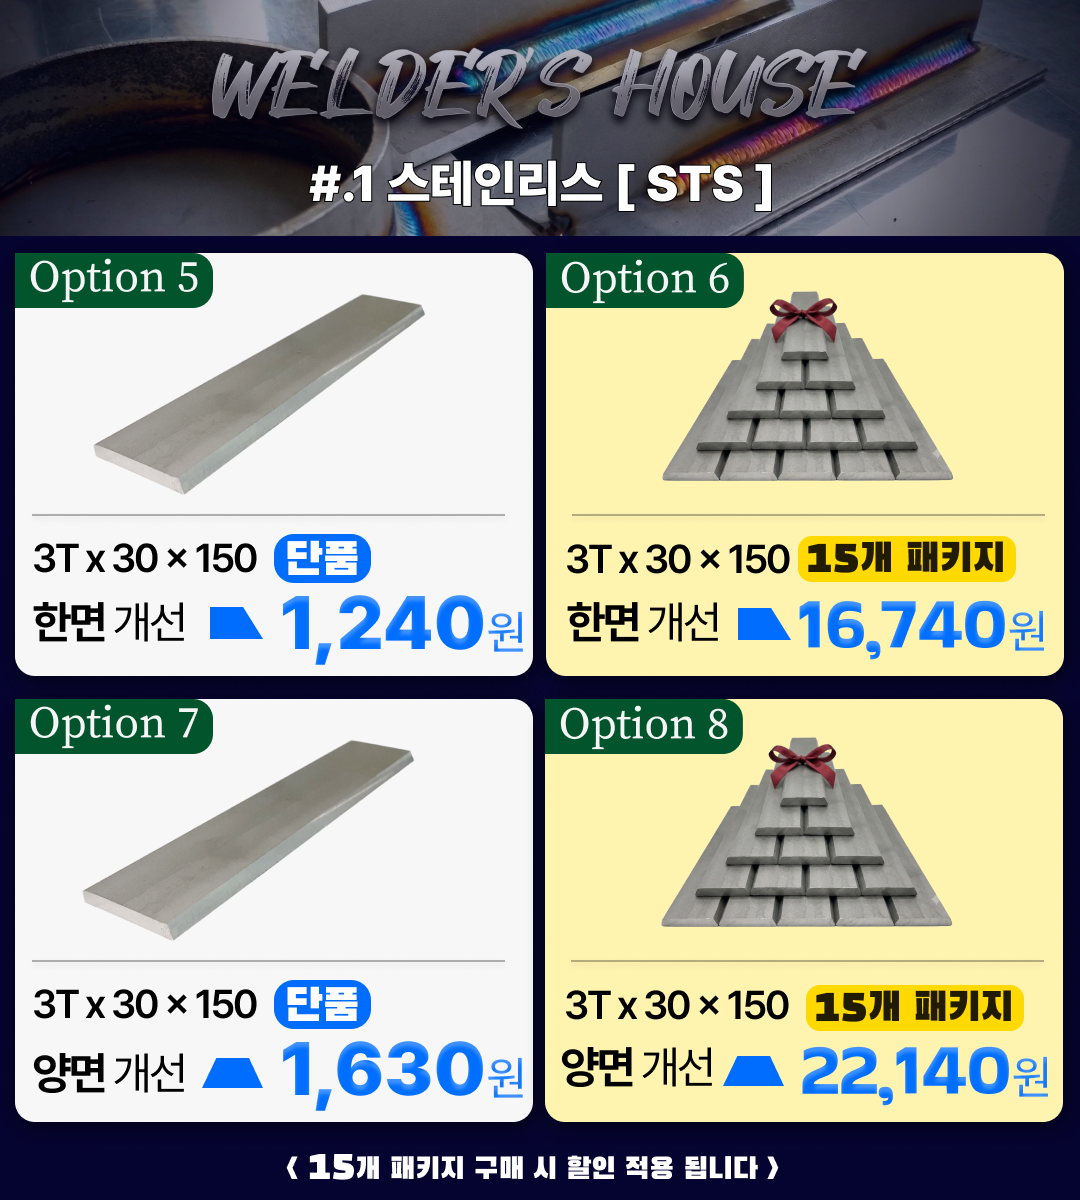
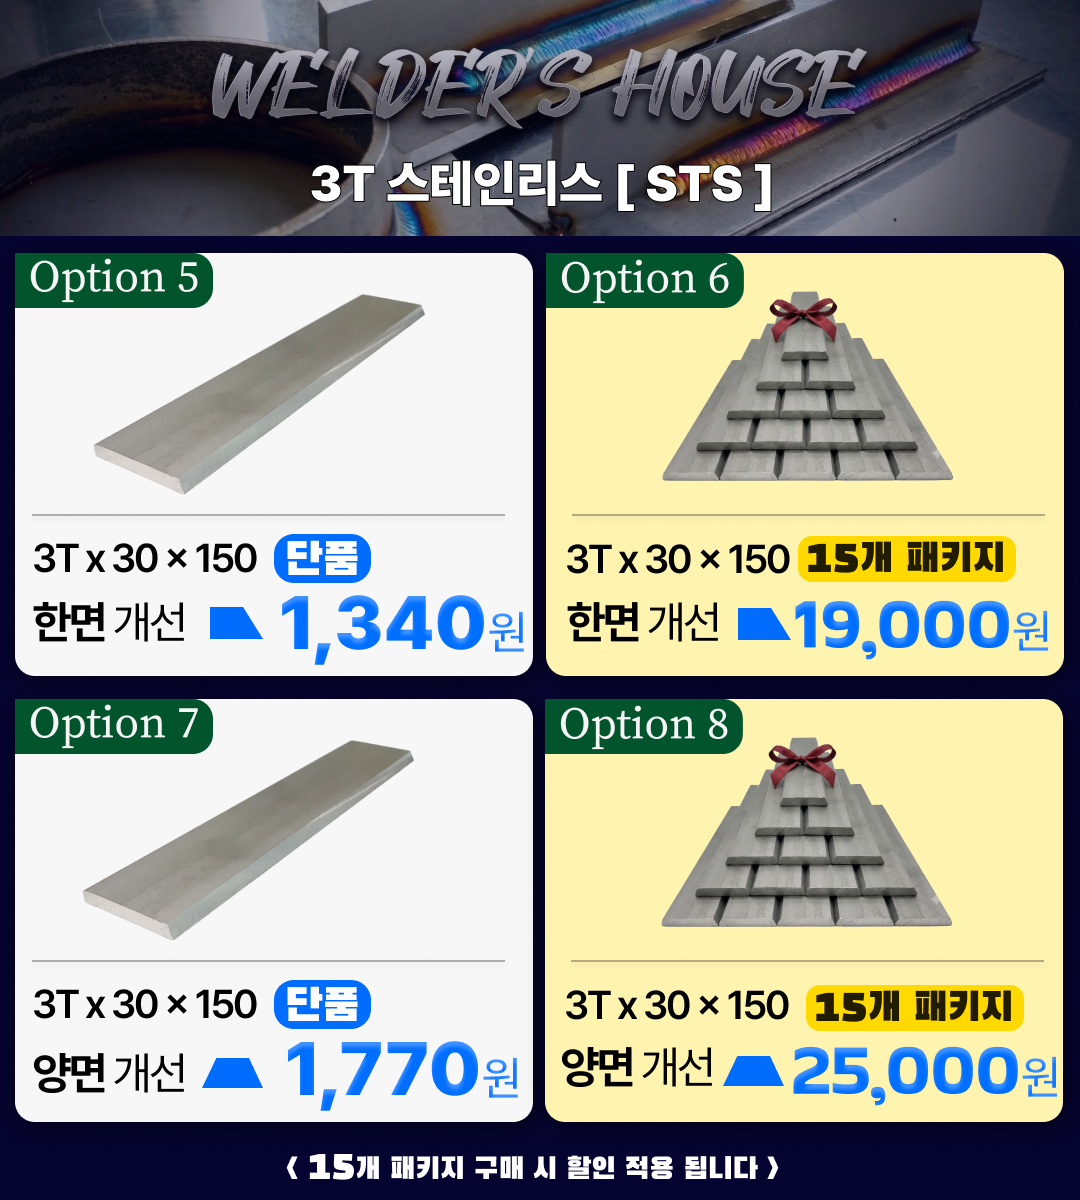
가격 수정, 이미지 교체, 주문서 날짜 추가

diff --git a/index.html b/index.html
@@ -161,11 +161,11 @@
                 <div class="prod-price">610원</div>
             </div>
 
-            <div class="product-card" data-value="8235" data-name="Option 2. SS400 6T (15개 패키지 / 양면개선)" onclick="selectProduct(this)">
+            <div class="product-card" data-value="8700" data-name="Option 2. SS400 6T (15개 패키지 / 양면개선)" onclick="selectProduct(this)">
                 <div class="selected-badge">✓</div>
                 <div class="prod-opt-number">Option 2</div>
                 <div class="prod-name">SS400 6T x 30 x 150<br><small style="color:#8b949e">(15개 팩 / 양면개선)</small></div>
-                <div class="prod-price">8,235원</div>
+                <div class="prod-price">8,700원</div>
             </div>
 
             <div class="product-card" data-value="870" data-name="Option 3. SS400 9T (단품 / 양면개선)" onclick="selectProduct(this)">
@@ -175,69 +175,69 @@
                 <div class="prod-price">870원</div>
             </div>
 
-            <div class="product-card" data-value="11740" data-name="Option 4. SS400 9T (15개 패키지 / 양면개선)" onclick="selectProduct(this)">
+            <div class="product-card" data-value="12400" data-name="Option 4. SS400 9T (15개 패키지 / 양면개선)" onclick="selectProduct(this)">
                 <div class="selected-badge">✓</div>
                 <div class="prod-opt-number">Option 4</div>
                 <div class="prod-name">SS400 9T x 30 x 150<br><small style="color:#8b949e">(15개 팩 / 양면개선)</small></div>
-                <div class="prod-price">11,740원</div>
+                <div class="prod-price">12,400원</div>
             </div>
 
             <!-- STS 3T -->
-            <div class="product-card" data-value="1240" data-name="Option 5. STS 3T (단품 / 한면개선)" onclick="selectProduct(this)">
+            <div class="product-card" data-value="1340" data-name="Option 5. STS 3T (단품 / 한면개선)" onclick="selectProduct(this)">
                 <div class="selected-badge">✓</div>
                 <div class="prod-opt-number">Option 5</div>
                 <div class="prod-name">STS 3T x 30 x 150<br><small style="color:#8b949e">(단품 / 한면개선)</small></div>
-                <div class="prod-price">1,240원</div>
+                <div class="prod-price">1,340원</div>
             </div>
             
-            <div class="product-card" data-value="16740" data-name="Option 6. STS 3T (15개 패키지 / 한면개선)" onclick="selectProduct(this)">
+            <div class="product-card" data-value="19000" data-name="Option 6. STS 3T (15개 패키지 / 한면개선)" onclick="selectProduct(this)">
                 <div class="selected-badge">✓</div>
                 <div class="prod-opt-number">Option 6</div>
                 <div class="prod-name">STS 3T x 30 x 150<br><small style="color:#8b949e">(15개 팩 / 한면개선)</small></div>
-                <div class="prod-price">16,740원</div>
+                <div class="prod-price">19,000원</div>
             </div>
 
-            <div class="product-card" data-value="1630" data-name="Option 7. STS 3T (단품 / 양면개선)" onclick="selectProduct(this)">
+            <div class="product-card" data-value="1770" data-name="Option 7. STS 3T (단품 / 양면개선)" onclick="selectProduct(this)">
                 <div class="selected-badge">✓</div>
                 <div class="prod-opt-number">Option 7</div>
                 <div class="prod-name">STS 3T x 30 x 150<br><small style="color:#8b949e">(단품 / 양면개선)</small></div>
-                <div class="prod-price">1,630원</div>
+                <div class="prod-price">1,770원</div>
             </div>
 
-            <div class="product-card" data-value="22140" data-name="Option 8. STS 3T (15개 패키지 / 양면개선)" onclick="selectProduct(this)">
+            <div class="product-card" data-value="25000" data-name="Option 8. STS 3T (15개 패키지 / 양면개선)" onclick="selectProduct(this)">
                 <div class="selected-badge">✓</div>
                 <div class="prod-opt-number">Option 8</div>
                 <div class="prod-name">STS 3T x 30 x 150<br><small style="color:#8b949e">(15개 팩 / 양면개선)</small></div>
-                <div class="prod-price">22,140원</div>
+                <div class="prod-price">25,000원</div>
             </div>
 
             <!-- STS 4T -->
-            <div class="product-card" data-value="1640" data-name="Option 9. STS 4T (단품 / 한면개선)" onclick="selectProduct(this)">
+            <div class="product-card" data-value="1740" data-name="Option 9. STS 4T (단품 / 한면개선)" onclick="selectProduct(this)">
                 <div class="selected-badge">✓</div>
                 <div class="prod-opt-number">Option 9</div>
                 <div class="prod-name">STS 4T x 30 x 150<br><small style="color:#8b949e">(단품 / 한면개선)</small></div>
-                <div class="prod-price">1,640원</div>
+                <div class="prod-price">1,740원</div>
             </div>
 
-            <div class="product-card" data-value="22140" data-name="Option 10. STS 4T (15개 패키지 / 한면개선)" onclick="selectProduct(this)">
+            <div class="product-card" data-value="24500" data-name="Option 10. STS 4T (15개 패키지 / 한면개선)" onclick="selectProduct(this)">
                 <div class="selected-badge">✓</div>
                 <div class="prod-opt-number">Option 10</div>
                 <div class="prod-name">STS 4T x 30 x 150<br><small style="color:#8b949e">(15개 팩 / 한면개선)</small></div>
-                <div class="prod-price">22,140원</div>
+                <div class="prod-price">24,500원</div>
             </div>
 
-            <div class="product-card" data-value="2030" data-name="Option 11. STS 4T (단품 / 양면개선)" onclick="selectProduct(this)">
+            <div class="product-card" data-value="2170" data-name="Option 11. STS 4T (단품 / 양면개선)" onclick="selectProduct(this)">
                 <div class="selected-badge">✓</div>
                 <div class="prod-opt-number">Option 11</div>
                 <div class="prod-name">STS 4T x 30 x 150<br><small style="color:#8b949e">(단품 / 양면개선)</small></div>
-                <div class="prod-price">2,030원</div>
+                <div class="prod-price">2,170원</div>
             </div>
 
-            <div class="product-card" data-value="27405" data-name="Option 12. STS 4T (15개 패키지 / 양면개선)" onclick="selectProduct(this)">
+            <div class="product-card" data-value="30500" data-name="Option 12. STS 4T (15개 패키지 / 양면개선)" onclick="selectProduct(this)">
                 <div class="selected-badge">✓</div>
                 <div class="prod-opt-number">Option 12</div>
                 <div class="prod-name">STS 4T x 30 x 150<br><small style="color:#8b949e">(15개 팩 / 양면개선)</small></div>
-                <div class="prod-price">27,405원</div>
+                <div class="prod-price">30,500원</div>
             </div>
         </div>
 
@@ -275,6 +275,7 @@
         <div class="receipt-card" id="receiptArea">
             <h3>🧾 주문 견적서</h3>
             <div class="info-summary">
+                <div><b>주문일:</b> <span id="sumDate">-</span></div>
                 <div><b>성함:</b> <span id="sumName">-</span></div>
                 <div><b>연락처:</b> <span id="sumPhone">-</span></div>
                 <div><b>주소:</b> <span id="sumAddress">-</span></div>
@@ -421,6 +422,14 @@
         document.getElementById('grandTotal').innerText = grandTotal.toLocaleString() + ' 원';
     }
 
+    function getKoreaDate() {
+        return new Intl.DateTimeFormat('en-CA', { timeZone: 'Asia/Seoul', year: 'numeric', month: '2-digit', day: '2-digit' }).format(new Date());
+    }
+    document.addEventListener('DOMContentLoaded', function () {
+        var d = document.getElementById('sumDate');
+        if (d) d.textContent = getKoreaDate();
+    });
+
     function buildOrderText() {
         if (cart.length === 0) return null;
         
@@ -429,6 +438,7 @@
         const address = document.getElementById('custAddress').value || '미입력';
 
         let text = "[WELDER'S HOUSE 주문서]\n";
+        text += `📅 주문일: ${getKoreaDate()}\n`;
         text += "------------------------\n";
         text += `👤 성함: ${name}\n`;
         text += `📞 연락처: ${phone}\n`;
